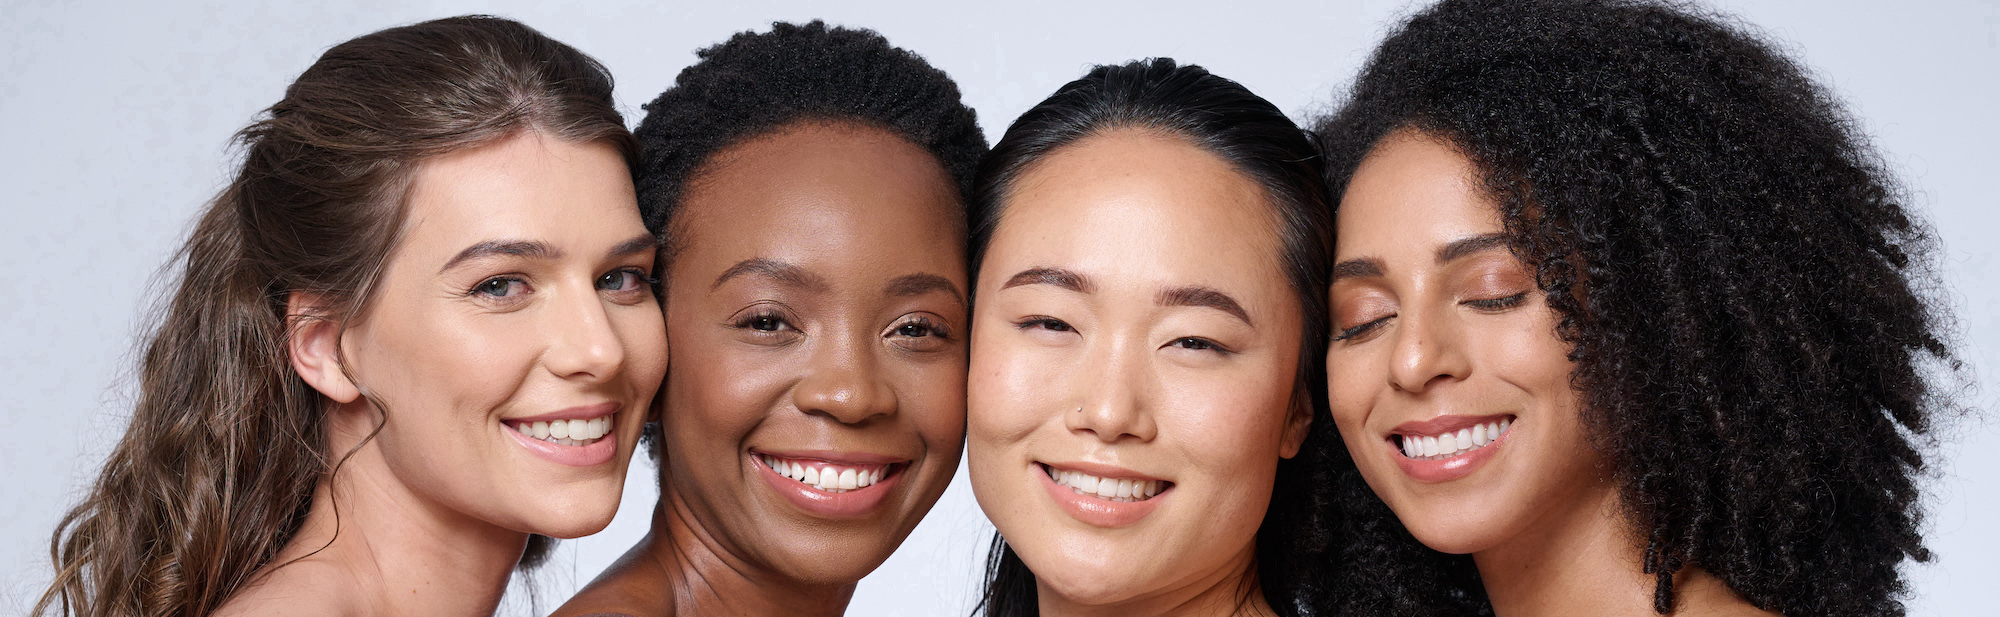
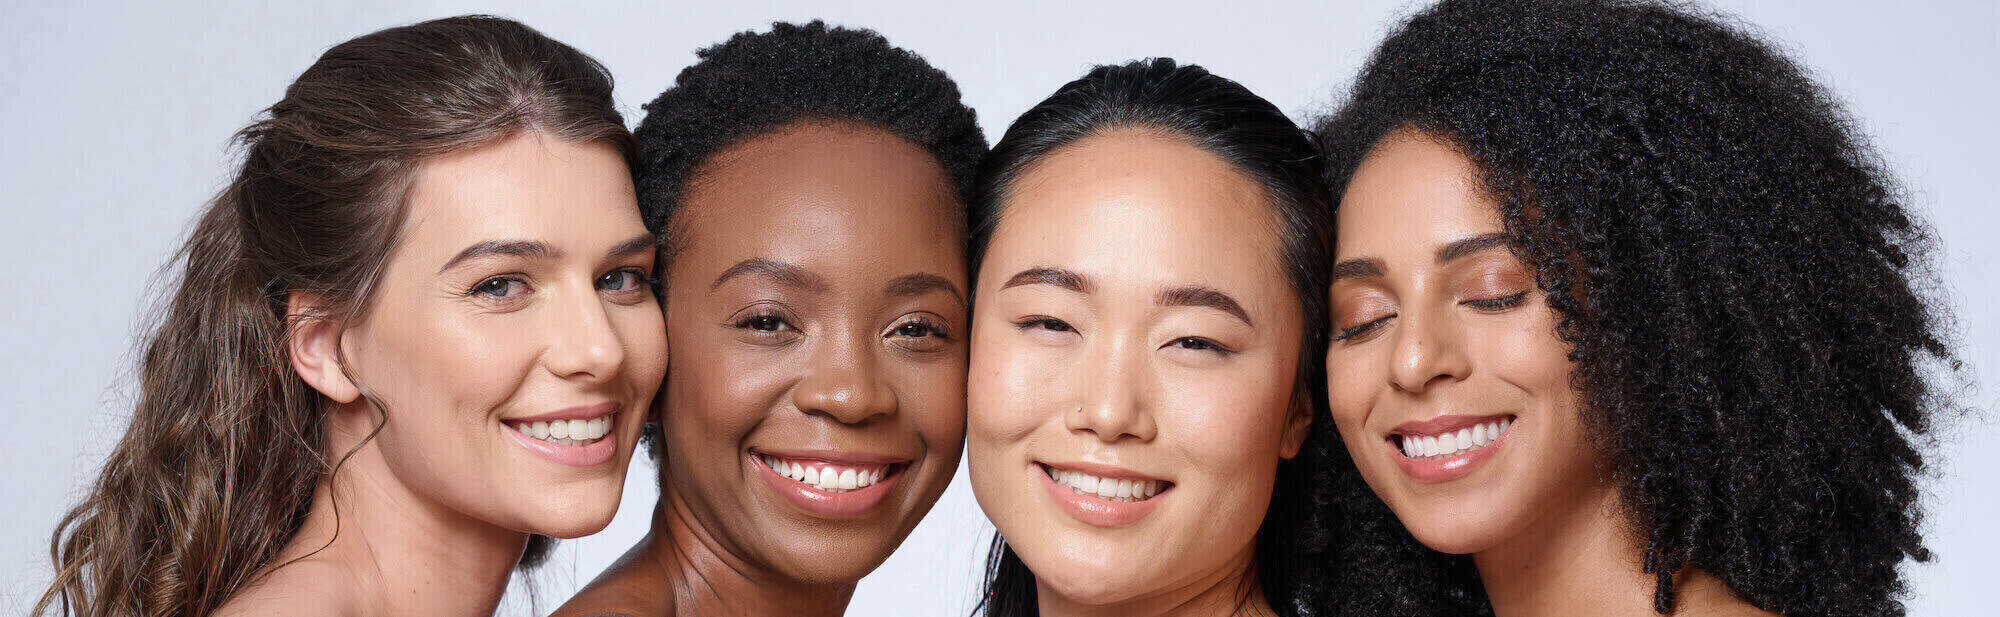
unused image deleted and final edit to readme

diff --git a/assets/css/style.css b/assets/css/style.css
@@ -74,7 +74,7 @@ h2 {
 #care-image {
     height: 600px;
     width: 100%;
-    background: url('../images/carem.jpg') no-repeat center center;
+    background: url('../images/care.jpg') no-repeat center center;
     /* zoom effect animation */
     animation-name: care-zoom;
     animation-duration: 5s;

diff --git a/README.md b/README.md
@@ -29,16 +29,17 @@ the website needs to accept the user detail and then suggest product
 
 •Testing
 °the project is tested on validator testing and also chrome DevTools
-
 •Validator Testing
 •HTML
 °No errors were returned when passing through the official W3C validator
 •CSS
 °No errors were found when passing through the official (Jigsaw) validator
 
-    •Deployment
-     °most of the time i was using my local Vs code editor and i was pushing code whenever i am done with one section. The site is deployed on github.
-     °the live link is- https://selamshim.github.io/skin-care/
+°Unfixed Bugs i was having problem to get a nice looking image for my home page so i bought from istock but ther resolution was high which affect the performance of the page. when i minimize the size of the image it wasnt looking that much good.
+
+•Deployment
+ °most of the time i was using my local Vs code editor and i was pushing code whenever i am done with one section. The site is deployed on github.
+ °the live link is- https://selamshim.github.io/skin-care/
 
 •Credits
 °I have got help from tutor support and Love Running Project. I was able to have a good imagination and concept on how to design my sign up page and front home page image.
